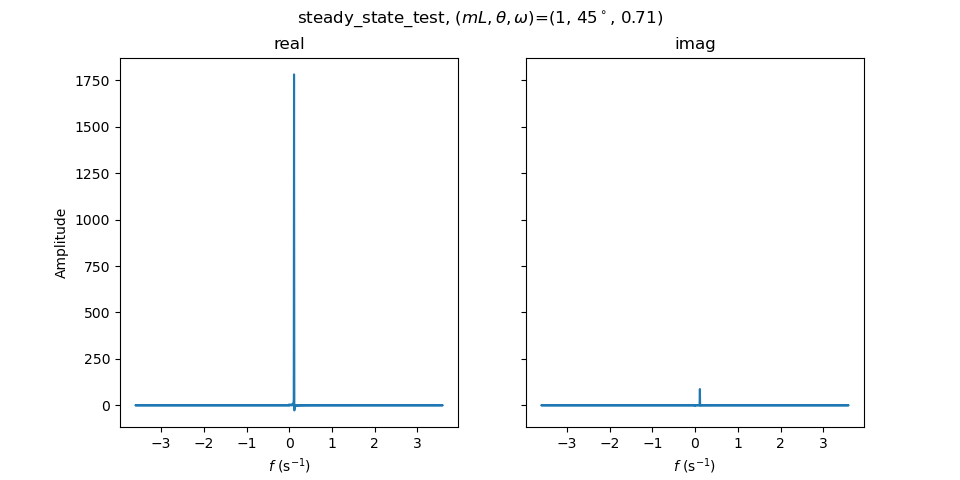
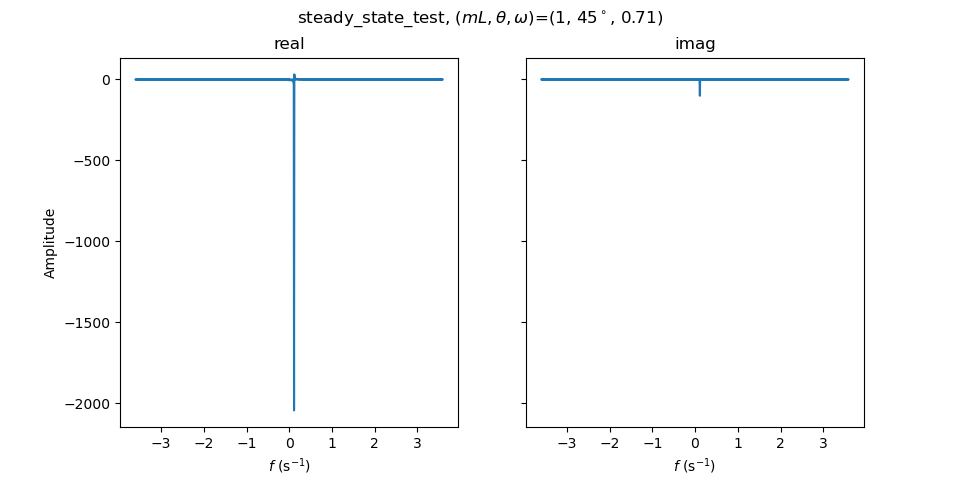
Changed dis domain calc so it is integer number of lam_z

diff --git a/steady_state_test.py b/steady_state_test.py
@@ -44,12 +44,16 @@ T           = sbp.T             # [s]           Wave period
 nz          = sbp.nz
 z0_dis      = sbp.z0_dis
 zf_dis      = sbp.zf_dis
+lz_lambda = abs(z0_dis-zf_dis)/lam_z
+print("Lz/lambda=",lz_lambda)
 
 dt          = sbp.dt
 dz          = abs(z0_dis - zf_dis)/nz
 
 z_I         = sbp.z_I
 z_T         = sbp.z_T
+
+plt_fd      = sbp.plot_full_domain
 
 ###############################################################################
 # Create ideal, steady-state, periodic boundary simulation data
@@ -222,14 +226,14 @@ plot_psi    = (psi) #- psi_hat.real # psi.real
 # Plotting and stuff
 
 if sbp.plot_spacetime:
-    hf.plot_z_vs_t(z, t, T, plot_psi.real, BP_array, mL, theta, omega, z0_dis=z0_dis, zf_dis=zf_dis, plot_full_domain=False, nT=0, title_str=run_name, filename='ss_1D_wave.png')
+    hf.plot_z_vs_t(z, t, T, plot_psi.real, BP_array, mL, theta, omega, z0_dis=z0_dis, zf_dis=zf_dis, plot_full_domain=plt_fd, nT=0, title_str=run_name, filename='ss_1D_wave.png')
 
 if sbp.plot_freqspace:
     foobar, psi_FT_t, freqs = FT_in_time(t, z, psi, dt, omega)
     # fig, axes = plt.subplots(nrows=1, ncols=1)
     # axes.plot(freqs, psi_FT_t[200])
     # plt.show()
-    hf.plot_freq_space(z, freqs, psi_FT_t.real, psi_FT_t.imag, mL, theta, omega, plot_full_domain=False, title_str=run_name, filename='ss_1D_freq_spectra.png')
+    hf.plot_freq_space(z, freqs, psi_FT_t.real, psi_FT_t.imag, mL, theta, omega, plot_full_domain=plt_fd, title_str=run_name, filename='ss_1D_freq_spectra.png')
 
 if sbp.plot_amplitude:
     hf.plot_A_of_I_T(z, t, T, plot_dn, z_I, z_T, dz, mL, theta, omega, title_str=run_name, filename='ss_1D_A_of_I_T.png')
@@ -238,14 +242,14 @@ if sbp.plot_amplitude:
     hf.plot_AA_for_z(BP_array, hf.AAcc(plot_dn), z, mL, theta, omega, T_skip=None, T=T, t=t, z0_dis=z0_dis, zf_dis=zf_dis, z_I=z_I, z_T=z_T, title_str=run_name, filename='ss_1D_AA_for_z.png')
 
 if sbp.plot_up_dn:
-    hf.plot_z_vs_t(z, t, T, plot_up.real, BP_array, mL, theta, omega, z0_dis=z0_dis, zf_dis=zf_dis,  plot_full_domain=False, nT=None, title_str=run_name+' up', filename='ss_1D_up_field.png')
-    hf.plot_z_vs_t(z, t, T, plot_dn.real, BP_array, mL, theta, omega, z0_dis=z0_dis, zf_dis=zf_dis, plot_full_domain=False, nT=None, title_str=run_name+' dn', filename='ss_1D_dn_field.png')
+    hf.plot_z_vs_t(z, t, T, plot_up.real, BP_array, mL, theta, omega, z0_dis=z0_dis, zf_dis=zf_dis,  plot_full_domain=plt_fd, nT=None, title_str=run_name+' up', filename='ss_1D_up_field.png')
+    hf.plot_z_vs_t(z, t, T, plot_dn.real, BP_array, mL, theta, omega, z0_dis=z0_dis, zf_dis=zf_dis, plot_full_domain=plt_fd, nT=None, title_str=run_name+' dn', filename='ss_1D_dn_field.png')
 
 plot_CD_checks = False
 if plot_CD_checks:
     # Add up and down fields to see if they reproduce the original psi field
     up_plus_dn = up_field.real + dn_field.real
-    hf.plot_z_vs_t(z, t, T, up_plus_dn, BP_array, mL, theta, omega, z0_dis=z0_dis, zf_dis=zf_dis, plot_full_domain=False, nT=None, title_str=run_name, filename='ss_1D_up_plus_dn.png')
+    hf.plot_z_vs_t(z, t, T, up_plus_dn, BP_array, mL, theta, omega, z0_dis=z0_dis, zf_dis=zf_dis, plot_full_domain=plt_fd, nT=None, title_str=run_name, filename='ss_1D_up_plus_dn.png')
     # Plot the difference, which ideally should be zero everywhere
     CD_diff = psi.real - up_plus_dn
-    hf.plot_z_vs_t(z, t, T, CD_diff, BP_array, mL, theta, omega, z0_dis=z0_dis, zf_dis=zf_dis, plot_full_domain=False, nT=None, title_str=run_name, filename='ss_1D_CD_diff.png')
+    hf.plot_z_vs_t(z, t, T, CD_diff, BP_array, mL, theta, omega, z0_dis=z0_dis, zf_dis=zf_dis, plot_full_domain=plt_fd, nT=None, title_str=run_name, filename='ss_1D_CD_diff.png')

diff --git a/switchboard.py b/switchboard.py
@@ -126,7 +126,8 @@ z0_str  = z0_dis - dis_buff     # [m] top of vertical structure
 z_I     = z0_str + IT_buff      # [m] depth at which to measure Incident wave
 zf_str  = z0_str - L            # [m] bottom of vertical structure
 z_T     = zf_str - IT_buff      # [m] depth at which to measure Transmitted wave
-zf_dis  = zf_str - dis_buff     # [m] bottom of display domain
+zf_buff = dis_buff+(lam_z-L)    # [m] extra buffer to make sure dis domain is integer number of lam_z
+zf_dis  = zf_str - zf_buff      # [m] bottom of display domain
 
 ###############################################################################
 # Boundary forcing window parameters
